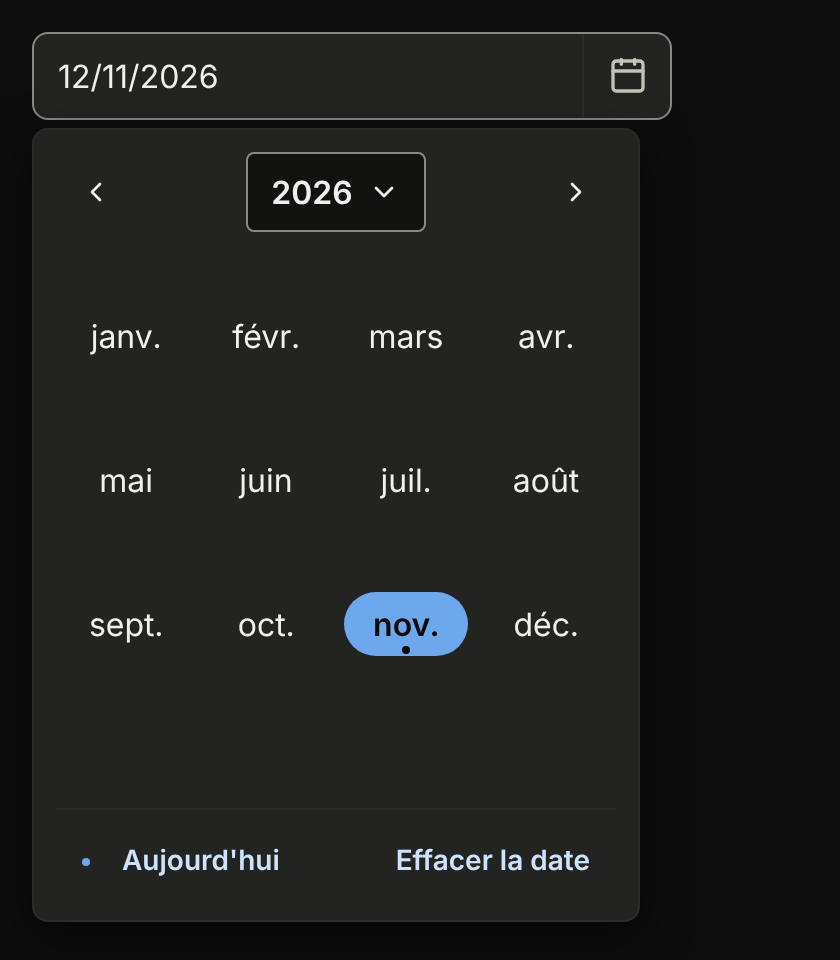
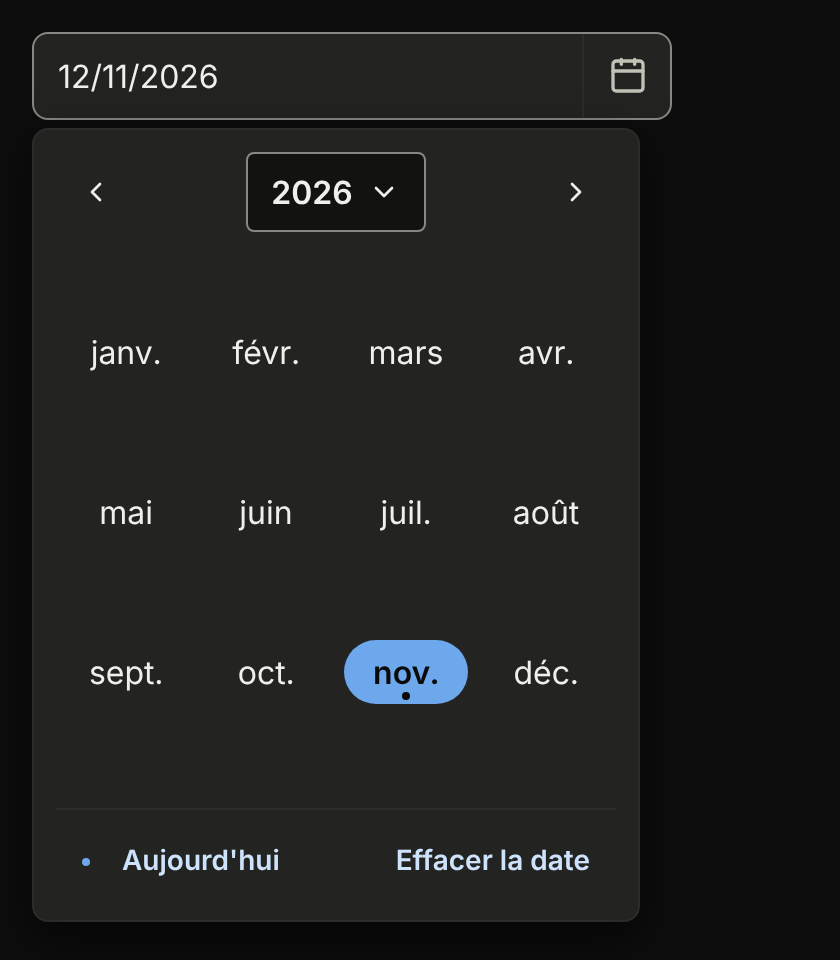
wip(date-picker): corrections du développeur après le NO-GO de la QA et le contrôle du designer (second passage de la QA à faire)
Claude-Session: https://claude.ai/code/session_011nLZSEPJfzJTrYmUmaR8vs

diff --git a/packages/angular/forms/src/date-input/calendar-panel-corrections.spec.ts b/packages/angular/forms/src/date-input/calendar-panel-corrections.spec.ts
@@ -1,0 +1,94 @@
+import { TestBed } from '@angular/core/testing';
+import { LcCalendarPanelComponent } from './calendar-panel.component';
+
+async function setup(selection: string | null, level?: 'month' | 'year') {
+  const fixture = TestBed.createComponent(LcCalendarPanelComponent);
+  document.body.append(fixture.nativeElement);
+  fixture.componentRef.setInput('today', '2026-11-19');
+  fixture.componentRef.setInput('selection', { from: selection, to: null });
+  await fixture.whenStable();
+  const el = fixture.nativeElement as HTMLElement;
+  const picked = vi.fn();
+  fixture.componentInstance.picked.subscribe(picked);
+  const settle = () => fixture.whenStable();
+  const title = () => el.querySelector('button.lc-calendar__title') as HTMLButtonElement;
+  const label = () => el.querySelector('[aria-live="polite"]')!.textContent;
+  const nav = (name: RegExp) => [...el.querySelectorAll<HTMLButtonElement>('button.lc-calendar__nav')].find((b) => name.test(b.getAttribute('aria-label')!))!;
+  const click = async (target: Element, detail = 1) => {
+    target.dispatchEvent(new MouseEvent('click', { bubbles: true, detail }));
+    await settle();
+  };
+  if (level) {
+    await click(title());
+    if (level === 'year') await click(title());
+  }
+  return { el, picked, title, label, nav, click, settle };
+}
+
+describe('calendar-panel, corrections après la QA', () => {
+  afterEach(() => document.body.replaceChildren());
+
+  it('double clic sur un mois : le second clic ne choisit aucun jour', async () => {
+    const { el, picked, click, label } = await setup('2026-11-12', 'month');
+    await click(el.querySelector('td[data-date="2026-05-01"]')!);
+    expect(label()).toBe('mai 2026');
+    await click(el.querySelector('td[data-date="2026-05-01"]')!, 2);
+    expect(picked).not.toHaveBeenCalled();
+  });
+
+  it('double clic sur une année : le second clic ne choisit rien non plus', async () => {
+    const { el, picked, click } = await setup('2026-11-12', 'year');
+    await click(el.querySelector('td[data-date="2024-01-01"]')!);
+    await click(el.querySelector('td[data-date="2024-03-01"]')!, 2);
+    expect(picked).not.toHaveBeenCalled();
+  });
+
+  it('un double clic sur un jour le choisit une seule fois, un clic simple aussi', async () => {
+    const { el, picked, click } = await setup('2026-11-12');
+    await click(el.querySelector('td[data-date="2026-11-20"]')!, 1);
+    await click(el.querySelector('td[data-date="2026-11-20"]')!, 2);
+    await click(el.querySelector('td[data-date="2026-11-20"]')!, 3);
+    expect(picked).toHaveBeenCalledExactlyOnceWith('2026-11-20');
+  });
+
+  it('l’hôte est focalisable par un clic (tabindex -1) : Échap et le piège restent actifs', async () => {
+    const { el } = await setup(null);
+    expect(el.getAttribute('tabindex')).toBe('-1');
+  });
+
+  it('années : la première page est « 1000 à 1011 », précédent désactivé ; la dernière « 9988 à 9999 », suivant désactivé', async () => {
+    const { el, label, nav, click } = await setup('2026-11-12', 'year');
+    for (let step = 0; step < 200 && !nav(/précédentes/).disabled; step++) await click(nav(/précédentes/));
+    expect(label()).toBe('1000 à 1011');
+    expect(nav(/précédentes/).disabled).toBe(true);
+    expect(Math.min(...[...el.querySelectorAll('td[data-date]')].map((c) => Number(c.getAttribute('data-date')!.slice(0, 4))))).toBe(1000);
+    for (let step = 0; step < 1000 && !nav(/suivantes/).disabled; step++) await click(nav(/suivantes/));
+    expect(label()).toBe('9988 à 9999');
+    expect(nav(/suivantes/).disabled).toBe(true);
+  });
+
+  it('mois : précédent désactivé en 1000, suivant en 9999 ; jours : janvier 1000 et décembre 9999', async () => {
+    const first = await setup('1000-03-10', 'month');
+    expect(first.nav(/précédente/).disabled).toBe(true);
+    expect(first.nav(/suivante/).disabled).toBe(false);
+    document.body.replaceChildren();
+    const last = await setup('9999-03-10', 'month');
+    expect(last.nav(/suivante/).disabled).toBe(true);
+    document.body.replaceChildren();
+    const january = await setup('1000-01-15');
+    expect(january.nav(/précédent/).disabled).toBe(true);
+    document.body.replaceChildren();
+    const december = await setup('9999-12-15');
+    expect(december.nav(/suivant/).disabled).toBe(true);
+    expect(december.nav(/précédent/).disabled).toBe(false);
+  });
+
+  it('au clavier, on ne sort pas de 1000 à 9999', async () => {
+    const { el, settle, label } = await setup('1000-01-01');
+    const active = () => el.querySelector<HTMLElement>('td[tabindex="0"]')!;
+    active().dispatchEvent(new KeyboardEvent('keydown', { key: 'ArrowLeft', bubbles: true, cancelable: true }));
+    await settle();
+    expect(active().dataset['date']).toBe('1000-01-01');
+    expect(label()).toBe('janvier 1000');
+  });
+});

diff --git a/packages/angular/forms/src/stories/date-input.stories.ts b/packages/angular/forms/src/stories/date-input.stories.ts
@@ -1,6 +1,7 @@
 import { Component, booleanAttribute, input, linkedSignal, signal } from '@angular/core';
 import { applicationConfig, moduleMetadata, type Meta, type StoryObj } from '@storybook/angular-vite';
 import { expect, userEvent, waitFor, within } from 'storybook/test';
+import { page } from 'vitest/browser';
 // Le projet Vitest « storybook » ne charge pas les feuilles globales d'angular.json : on les charge ici pour mesurer le vrai rendu.
 import '../../../../tokens/dist/css/lc-tokens.css';
 import '../../../../tokens/dist/css/theme-default.css';
@@ -182,6 +183,53 @@ export const CalendrierDansUnChampDeFormulaire: Story = {
     expect(canvas.getByTestId('value')).toHaveTextContent('Valeur : aucune');
     expect((canvas.getByRole('textbox') as HTMLInputElement).value).toBe('jj/mm/aaaa');
     await waitFor(() => expect(canvas.getByRole('button', { name: 'Choisir une date' })).toHaveFocus());
+  },
+};
+
+/** Navigateur réel : le jour choisi est aussi aujourd'hui et porte le focus clavier ; le point d'aujourd'hui reste à l'intérieur du disque, sans le toucher. */
+export const CalendrierAujourdhuiChoisiFocus: Story = {
+  decorators: [moduleMetadata({ imports: [DateInputPickerDemoComponent] }), CALENDAR],
+  render: () => {
+    const now = new Date();
+    const today = `${now.getFullYear()}-${String(now.getMonth() + 1).padStart(2, '0')}-${String(now.getDate()).padStart(2, '0')}`;
+    return picker(`initial="${today}"`);
+  },
+  play: async ({ canvasElement }) => {
+    await userEvent.click(within(canvasElement).getByRole('button', { name: /^Changer la date/ }));
+    const panel = await openedPanel();
+    const day = await waitFor(() => {
+      const cell = panel.querySelector<HTMLElement>('td[aria-selected="true"][aria-current="date"]');
+      expect(cell).toHaveFocus();
+      return cell!;
+    });
+    const dot = getComputedStyle(day, '::after');
+    const disc = getComputedStyle(day, '::before');
+    // Le disque est inscrit avec une marge ; le point est posé plus haut que son bord bas, donc à l'intérieur.
+    expect(parseFloat(dot.bottom)).toBeGreaterThan(parseFloat(disc.bottom) + 1);
+    expect(parseFloat(dot.bottom) + parseFloat(dot.height)).toBeLessThan(day.getBoundingClientRect().height / 2);
+  },
+};
+
+/** Navigateur réel, fenêtre de 400 px de haut : le panneau reste dans la fenêtre, son corps défile et « Aujourd'hui » se clique. */
+export const CalendrierFenetreBasse: Story = {
+  decorators: [moduleMetadata({ imports: [DateInputPickerDemoComponent] }), CALENDAR],
+  render: () => picker('initial="2026-11-12"'),
+  play: async ({ canvasElement }) => {
+    await page.viewport(1280, 400);
+    try {
+      await waitFor(() => expect(window.innerHeight).toBe(400));
+      await userEvent.click(within(canvasElement).getByRole('button', { name: /^Changer la date/ }));
+      const panel = await openedPanel();
+      await waitFor(() => expect(panel.getBoundingClientRect().bottom).toBeLessThanOrEqual(400));
+      expect(panel.getBoundingClientRect().top).toBeGreaterThanOrEqual(0);
+      const today = within(panel).getByRole('button', { name: "Aujourd'hui" });
+      expect(today.getBoundingClientRect().bottom).toBeLessThanOrEqual(400);
+      await userEvent.click(today);
+      await waitFor(() => expect(document.querySelector('lc-calendar-panel')).toBeNull());
+      expect(within(canvasElement).getByTestId('value')).not.toHaveTextContent('2026-11-12');
+    } finally {
+      await page.viewport(1280, 720);
+    }
   },
 };
 

diff --git a/packages/angular/forms/src/date-input/date-input.component.ts b/packages/angular/forms/src/date-input/date-input.component.ts
@@ -7,6 +7,7 @@ import {
   Component,
   ComponentRef,
   ElementRef,
+  Injector,
   booleanAttribute,
   DestroyRef,
   computed,
@@ -146,9 +147,9 @@ export class LcDateInputComponent implements FormValueControl<string | null>, Lc
   private readonly inputRef = viewChild.required<ElementRef<HTMLInputElement>>('input');
   private readonly blurred = signal(false);
 
-  private readonly overlay = inject(Overlay);
+  // Overlay et LcFormatService ne sont demandés qu'à l'usage : le mode natif n'en construit aucun.
+  private readonly injector = inject(Injector);
   private readonly viewContainerRef = inject(ViewContainerRef);
-  private readonly format = inject(LcFormatService);
   private readonly buttonRef = viewChild<ElementRef<HTMLButtonElement>>('calendarButton');
   private overlayRef?: OverlayRef;
   /** Panneau ouvert ; créé à l'ouverture, détruit à la fermeture. */
@@ -161,7 +162,7 @@ export class LcDateInputComponent implements FormValueControl<string | null>, Lc
   });
   protected readonly buttonName = computed(() => {
     const value = this.validValue();
-    return value ? this.labels.dateChange(this.format.date(value, 'long')) : this.labels.dateChoose;
+    return value ? this.labels.dateChange(this.injector.get(LcFormatService).date(value, 'long')) : this.labels.dateChoose;
   });
 
   constructor() {
@@ -211,17 +212,20 @@ export class LcDateInputComponent implements FormValueControl<string | null>, Lc
     panel.instance.focusInitial();
   }
 
-  /** Même stratégie de position et de défilement que `lc-combobox` ; largeur propre au panneau (304 px). */
+  /** Même stratégie de position et de défilement que `lc-combobox` ; largeur propre au panneau. Dimensions flexibles : sans place, le panneau se limite à la fenêtre et son corps défile. */
   private createOverlay(): OverlayRef {
-    const ref = this.overlay.create({
-      positionStrategy: this.overlay.position().flexibleConnectedTo(this.host).withFlexibleDimensions(false).withViewportMargin(8)
+    const overlay = this.injector.get(Overlay);
+    const ref = overlay.create({
+      positionStrategy: overlay.position().flexibleConnectedTo(this.host).withFlexibleDimensions(true).withViewportMargin(8)
         .withPositions([
           { originX: 'start', originY: 'bottom', overlayX: 'start', overlayY: 'top' },
           { originX: 'start', originY: 'top', overlayX: 'start', overlayY: 'bottom' },
           { originX: 'end', originY: 'bottom', overlayX: 'end', overlayY: 'top' },
           { originX: 'end', originY: 'top', overlayX: 'end', overlayY: 'bottom' },
         ]),
-      scrollStrategy: this.overlay.scrollStrategies.reposition(),
+      scrollStrategy: overlay.scrollStrategies.reposition(),
+      // Sans `minHeight` non nul (0 compte pour absent), le CDK ne retient jamais le dimensionnement flexible : le panneau serait seulement poussé.
+      minHeight: 1,
     });
     ref.outsidePointerEvents().subscribe((event) => {
       if (this.buttonRef()?.nativeElement.contains(event.target as Node)) return; // le bouton bascule lui-même

diff --git a/packages/angular/styles/ui-angular.css b/packages/angular/styles/ui-angular.css
@@ -405,6 +405,7 @@ lc-form-field [lcSuffix] {
   display: flex;
   flex-direction: column;
   inline-size: max-content;
+  min-block-size: 0;
   /* Écart avec le champ, dessous comme dessus (la surcouche colle le panneau au cadre). */
   margin-block: var(--lc-sys-space-1);
   /* Le contour est compté dans le padding : la largeur totale reste 7 cellules + 2 marges (304 px). */
@@ -418,6 +419,11 @@ lc-form-field [lcSuffix] {
   animation: lc-calendar-fade var(--lc-calendar-duration, var(--lc-sys-duration-fast)) var(--lc-calendar-easing, var(--lc-sys-easing-standard));
 }
 
+/* Focalisé par un clic dans une zone morte : aucun anneau, le panneau n'est pas un contrôle. */
+.lc-calendar:focus {
+  outline: none;
+}
+
 @keyframes lc-calendar-fade {
   from {
     opacity: 0;
@@ -426,6 +432,9 @@ lc-form-field [lcSuffix] {
 
 .lc-calendar__months {
   display: flex;
+  /* Fenêtre trop basse : le corps défile, le pied reste atteignable. */
+  min-block-size: 0;
+  overflow: auto;
   gap: var(--lc-calendar-month-gap, var(--lc-sys-space-6));
 }
 
@@ -564,6 +573,8 @@ lc-form-field [lcSuffix] {
 
 .lc-calendar__day[aria-disabled='true'] {
   color: var(--lc-calendar-day-disabled-text, var(--lc-sys-color-on-surface-subtle));
+  /* Repère qui ne repose pas sur la couleur. */
+  text-decoration: line-through;
   cursor: not-allowed;
 }
 
@@ -588,15 +599,21 @@ lc-form-field [lcSuffix] {
   vertical-align: middle;
 }
 
-/* Niveaux mois et années : 4 colonnes sur 3 lignes, même largeur ; des lignes espacées remplissent le corps, la pilule et l'anneau restent à la hauteur d'une cellule de jours. */
+/* Niveaux mois et années : 4 colonnes sur 3 lignes, même largeur ; des lignes espacées remplissent le corps (3 cellules + 4 intervalles d'une cellule = 7 cellules) et centrent la grille ; la pilule et l'anneau restent à la hauteur d'une cellule de jours. */
 .lc-calendar__grid--wide {
   border-collapse: separate;
-  border-spacing: 0 var(--lc-sys-space-8);
+  border-spacing: 0 var(--lc-sys-space-10);
 }
 
 /* Dans la pilule, le point reste à l'intérieur, sous le libellé. */
 .lc-calendar__grid--wide .lc-calendar__day[aria-current='date']::after {
   inset-block-end: calc(var(--lc-sys-space-1) + var(--lc-sys-border-width-thin));
+}
+
+/* Jour choisi et aujourd'hui : le point remonte pour rester dans le disque (ou la pilule), sans toucher son bord. */
+.lc-calendar__day[aria-selected='true'][aria-current='date']::after,
+.lc-calendar__grid--wide .lc-calendar__day[aria-selected='true'][aria-current='date']::after {
+  inset-block-end: calc(var(--lc-sys-space-1) * 1.5);
 }
 
 /* Niveau des années : le titre est du texte, sans contour ni chevron. */
